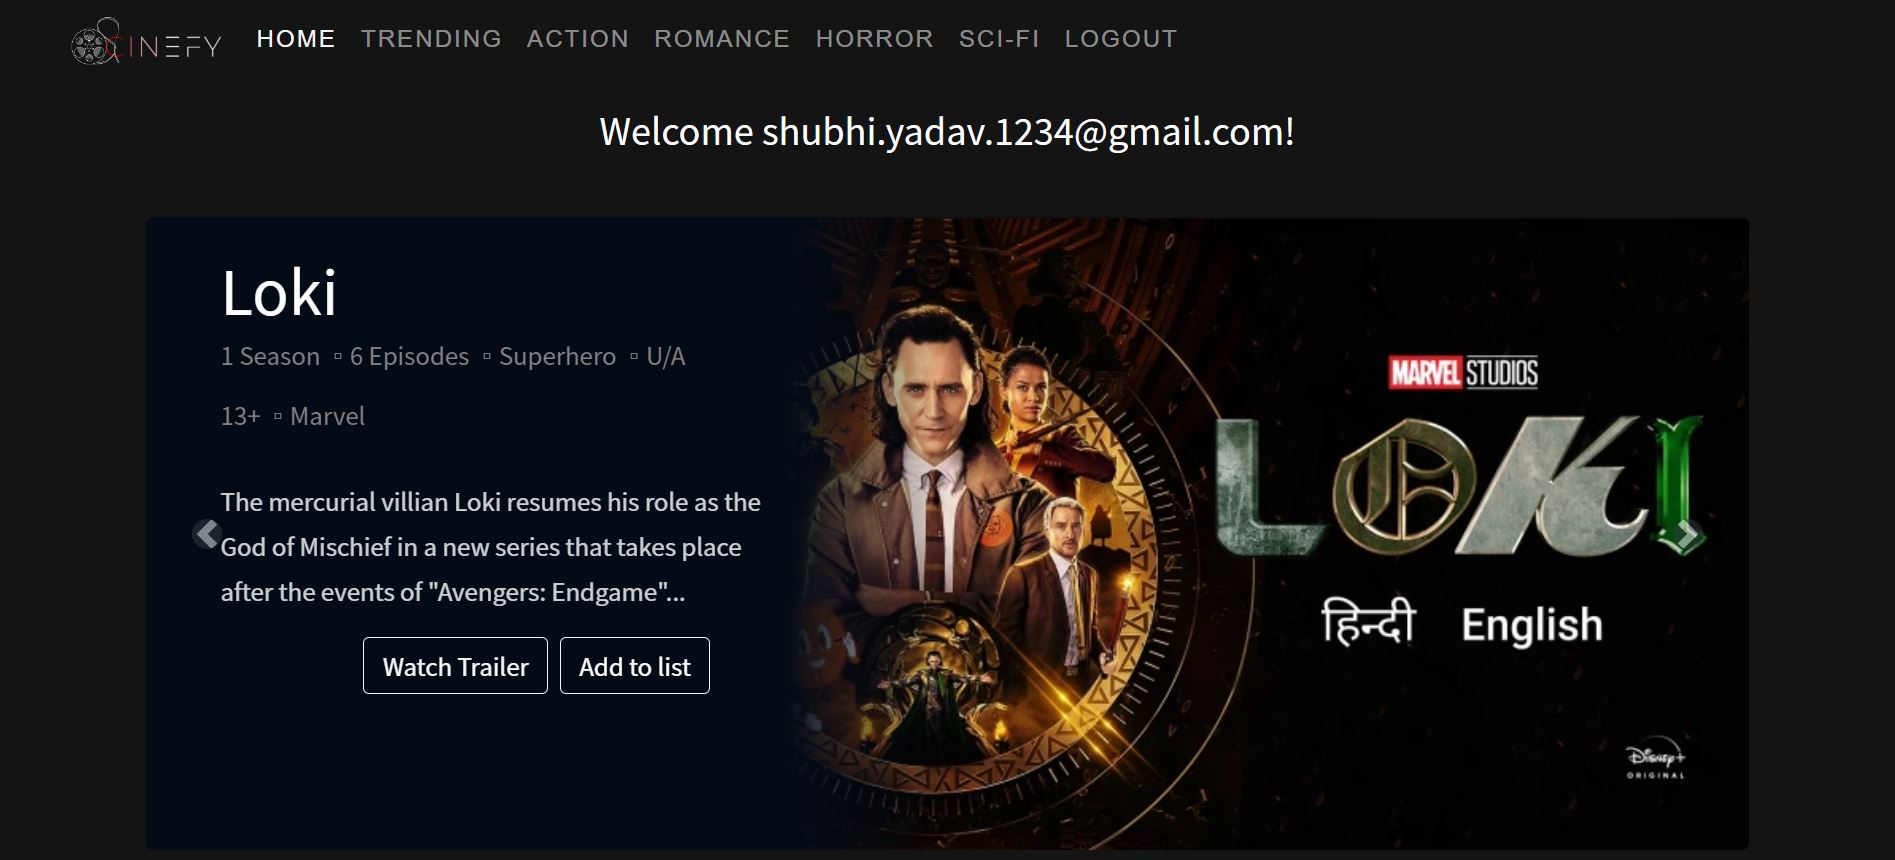
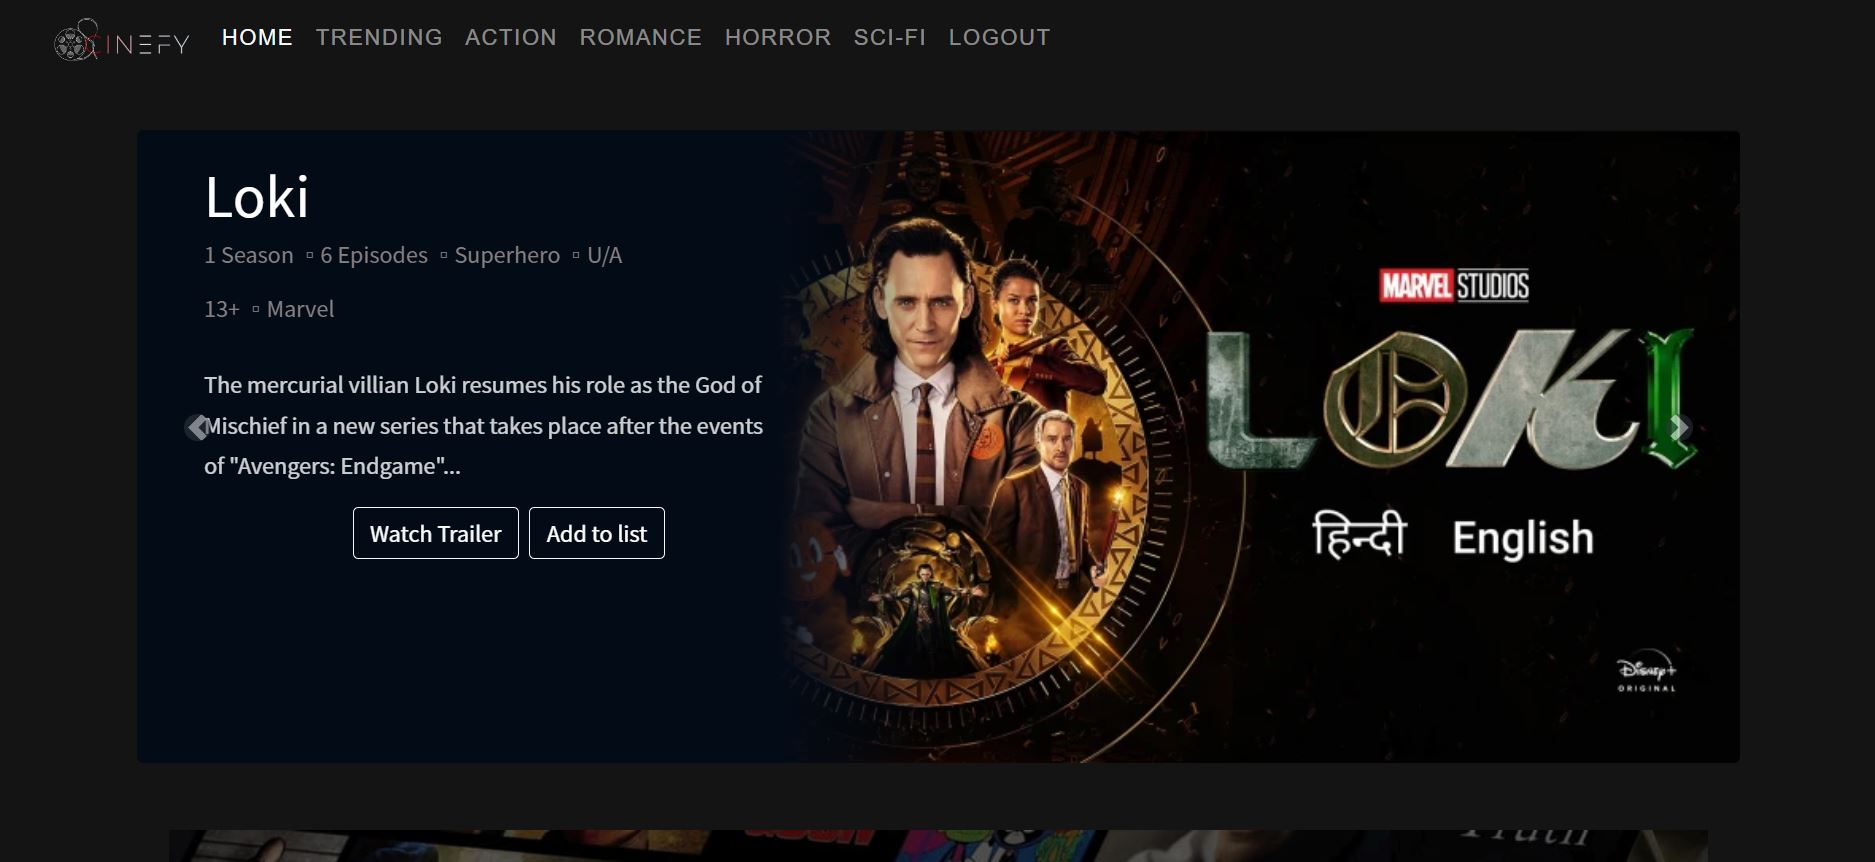
home image

diff --git a/templates/home.html b/templates/home.html
@@ -194,7 +194,7 @@
 
 
 
-  <div id="carouselExampleDark" class="mt-5 carousel slide carousel-container mx-auto " data-bs-ride="carousel ">
+  <div id="carouselExampleDark" class="mt-5 pt-5 carousel slide carousel-container mx-auto " data-bs-ride="carousel ">
     <div class="carousel carousel-inner mx-auto">
       <div class="slider carousel-item active" data-bs-interval="10000">
         <div class="slide-content">

diff --git a/static/style.css b/static/style.css
@@ -111,7 +111,7 @@ li>a:hover:after {
 	height: 450px;
 	padding: 20px 0;
 	overflow-x: hidden;
-	margin-top: 100px;
+	margin-top: 50px;
 }
 
 .carousel {
